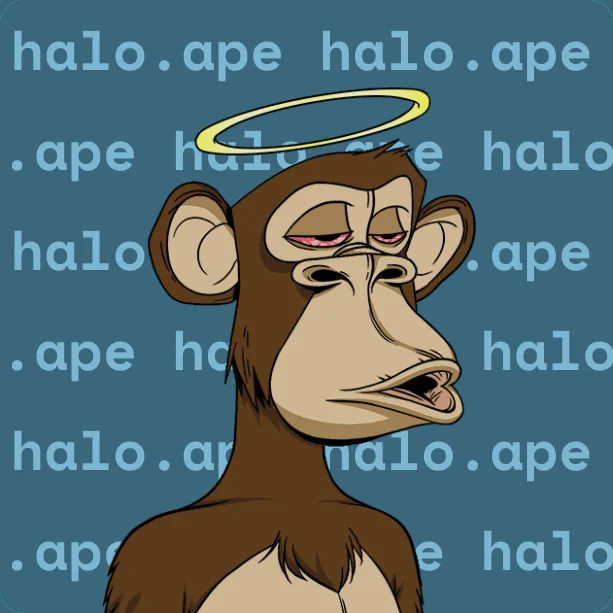
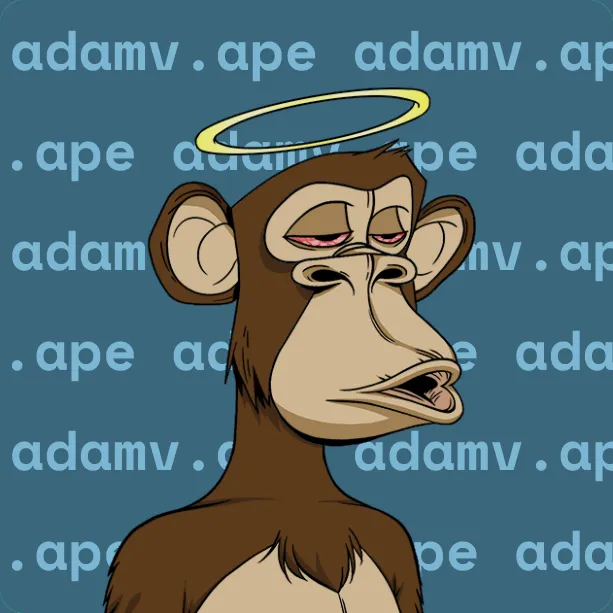
sx

diff --git a/src/2.views/3.generator/generator.js b/src/2.views/3.generator/generator.js
@@ -16,6 +16,7 @@ import AdamApe from "../../1.resources/3.files/images/nft/adam.webp";
 import PranApe from "../../1.resources/3.files/images/nft/pran.webp";
 import AdamdyorApe from "../../1.resources/3.files/images/nft/adamdyor.webp";
 import VincentApe from "../../1.resources/3.files/images/nft/vincent.webp";
+import EmptyImg from "../../1.resources/3.files/images/empty_nft.png";
 
 const Generator = ({ walletConnected, setWalletConnected }) => {
     let { address } = useAccount();
@@ -24,8 +25,11 @@ const Generator = ({ walletConnected, setWalletConnected }) => {
     const [tokenId, setTokenId] = useState(defaultTokenId);
     const [name, setName] = useState(defaultName);
     const [image, setImage] = useState(AdamApe);
-    const [imgLoading, setImgLoading] = useState(true);
+    const [imgLoading, setImgLoading] = useState(false);
+    const [imgError, setImgError] = useState(false);
     const [versionSelected, setVersionSelected] = useState(1);
+    const [refresh, setRefresh] = useState(0);
+
     useEffect(() => {
         document.title = "Generator - DOT APE";
     }, [])
@@ -48,22 +52,32 @@ const Generator = ({ walletConnected, setWalletConnected }) => {
         }
     }
 
-    function generate() {
+    async function generate() {
         if (name != "" && tokenId != "" && name.length >= 3) {
+            setImgLoading(true);
+            setImgError(false);
+            let signature = localStorage.getItem("accountSignature");
+            let collection = "bayc";
             let link;
             if (versionSelected == 1) {
-                link = process.env.REACT_APP_API_URL + `/generator/bg-name-color?tokenid=${tokenId}&name=${name}`
+                link = process.env.REACT_APP_API_URL + `/generator/bg-name-color?collection=${collection}&tokenid=${tokenId}&name=${name}&signature=${signature}`
             } else {
-                link = process.env.REACT_APP_API_URL + `/generator/bg-name?tokenid=${tokenId}&name=${name}`
+                link = process.env.REACT_APP_API_URL + `/generator/bg-name?collection=${collection}&tokenid=${tokenId}&name=${name}&signature=${signature}`
             }
             setImage(link);
-            setImgLoading(true);
+            setRefresh(refresh + 1);
         }
     }
 
-    const handleLoad = () => {
+    const handleOnload = () => {
         setImgLoading(false);
-    };
+    }
+
+    const handleOnError = () => {
+        setImgLoading(false);
+        setImage(EmptyImg);
+        setImgError(true);
+    }
 
     const changeOption = (e) => {
         setVersionSelected(e.target.value);
@@ -84,7 +98,7 @@ const Generator = ({ walletConnected, setWalletConnected }) => {
                         </div> */}
 
                         <div className="pt-0">
-                            <p className="text-6xl font-bold text-center">APE GENERATOR</p>
+                            <p className="text-6xl font-bold text-center">.APE GENERATOR</p>
                             <p className="text-2xl text-center pt-4">Generate your own .ape avatar for Twitter</p>
                         </div>
 
@@ -93,7 +107,11 @@ const Generator = ({ walletConnected, setWalletConnected }) => {
                                 {imgLoading ? <div className="flex justify-center items-center w-full aspect-square bg-neutral-800">
                                     <FontAwesomeIcon icon={['fas', 'circle-notch']} className="text-white text-2xl animate-spin" />
                                 </div> : (null)}
-                                <img src={image} className="w-full rounded-2xl" onLoad={handleLoad} style={{ display: imgLoading ? 'none' : 'block' }} />
+
+                                {/* {!imgLoading ? ( */}
+                                <img src={image} onLoad={handleOnload} onError={handleOnError} className="w-full rounded-2xl" style={{ display: imgLoading ? "none" : "block" }} key={refresh} />
+                                {/* ) : (null)} */}
+
                                 {imgLoading ? (null) : (
                                     <p className="text-xs text-start pt-4 text-gray-400">Right click and save image to download</p>
                                 )}
@@ -118,17 +136,32 @@ const Generator = ({ walletConnected, setWalletConnected }) => {
                                 <div className="flex items-center pt-2">
                                     <input type="text" className="bg-neutral-800 border-2 border-neutral-700 text-white text-lg w-full text-center rounded-xl py-2" value={name} onChange={changeName} />
                                 </div>
-                                <button type="button" onClick={() => generate()} className='bg-main text-white rounded-full p-3 px-4 text-sm whitespace-nowrap z-0 flex items-center gap-x-2 mt-8'>
-                                    <p>Generate</p>
-                                    <FontAwesomeIcon icon={['fas', 'arrow-right']} className="text-white text-sm" />
-                                </button>
+                                {imgError ? (
+                                    <div className="mt-8">
+                                        <p className="text-sm">We could not verify your ownership of this token.</p>
+                                    </div>
+                                ) : (null)}
+                                {address ? (
+                                    <button type="button" onClick={() => generate()} className='bg-main text-white rounded-full p-3 px-4 text-sm whitespace-nowrap z-0 flex items-center gap-x-2 mt-8'>
+                                        <p>Generate</p>
+                                        <FontAwesomeIcon icon={['fas', 'arrow-right']} className="text-white text-sm" />
+                                    </button>
+                                ) : (
+                                    <div className="mt-8">
+                                        <p className="text-sm">In order to protect the IP rights of holders, connect your wallet to verify that you own the NFT.</p>
+                                        <div className="mt-4">
+                                            <ConnectWallet />
+                                        </div>
+                                    </div>
+                                )}
+
                             </div>
                         </div>
                     </div>
 
                 </div>
 
-            </div >
+            </div>
             <div className="">
                 <Footer />
             </div>

diff --git a/src/2.views/0.global/wallet/loginSignature.js b/src/2.views/0.global/wallet/loginSignature.js
@@ -1,0 +1,123 @@
+import React, { useState, useContext, useEffect } from "react";
+import { FontAwesomeIcon } from '@fortawesome/react-fontawesome'
+import { ConnectWallet } from "../../0.global/wallet/connectWallet";
+import { signMessage } from '@wagmi/core'
+import { accountPrepend, loginPrepend } from "../../../1.resources/2.js/0.global/0.smallfunctions/prepends";
+import { useDisconnect } from 'wagmi'
+import { Variables } from "../../../1.resources/2.js/0.global/2.contracts/variables";
+import { Dialog } from '@headlessui/react'
+import { callW3Api } from "../../../1.resources/2.js/0.global/3.api/callW3Api";
+
+const LoginModal = ({ isOpen, setIsOpen, }) => {
+    const [loading, setLoading] = useState(false);
+    const [error, setError] = useState(false);
+    const { disconnect } = useDisconnect()
+
+    let walletFeatures = [
+        { title: "What will my signature be used for?", subtitle: "This signature identifies who you are and ensures that only you can access your data.", icon: "fas fa-circle-info" }
+    ]
+
+    async function sign() {
+        setLoading(true);
+        try {
+            let signature = await signMessage({ message: loginPrepend });
+            console.log(signature);
+            localStorage.setItem("accountSignature", signature);
+            setLoading(false);
+            setIsOpen(false);
+        } catch (error) {
+            setLoading(false);
+            setError(true);
+        }
+    }
+
+    async function disconnectWallet() {
+        localStorage.clear();
+        sessionStorage.clear();
+        disconnect();
+        setIsOpen(false);
+        window.location = "/";
+    }
+    return (
+        <div>
+            <Dialog
+                open={isOpen}
+                onClose={() => { }}
+                className="relative"
+                style={{ zIndex: 99000000000000000 }}
+            >
+                {/* The backdrop, rendered as a fixed sibling to the panel container */}
+                <div className="fixed inset-0 bg-black/30" aria-hidden="true" />
+
+                {/* Full-screen container to center the panel */}
+                <div className="fixed inset-0 flex items-center justify-center p-4">
+                    {/* The actual dialog panel  */}
+                    <Dialog.Panel className="mx-auto bg-white flex justify-center items-center rounded-3xl">
+
+                        <div className="md:w-[767px] py-10 md:py-20 px-10 md:px-20 bg-white rounded-3xl border border-gray-200">
+
+                            {/* <div className="pb-4">
+                                <WnsLogo />
+                            </div> */}
+                            <div className="mt-4">
+                                <p className="text-3xl font-bold">Welcome to Dot Ape!</p>
+                                <p className="text-gray-500 mt-4">Sign a message to sign into your account.</p>
+                            </div>
+
+                            <div className="pt-8 pb-2">
+                                {walletFeatures.map((item, index) => (
+                                    <div key={index} className="md:flex flex-row items-center py-6 gap-x-2 bg-gray-200 rounded-3xl px-8">
+                                        <div className="flex w-10 h-10 items-center rounded-full">
+                                            <FontAwesomeIcon icon={item.icon} className="text-xl text-black" />
+                                        </div>
+                                        <div>
+                                            <p className="text-sm font-bold">{item.title}</p>
+                                            <p className="text-gray-500 mt-1 text-sm">{item.subtitle}</p>
+                                        </div>
+                                    </div>
+                                ))}
+                            </div>
+
+                            <div>
+                                <p className="text-gray-500 mt-4 text-sm">This request will not trigger any blockchain transaction from your wallet or cost any gas fees.</p>
+                            </div>
+
+                            {loading ? (
+                                <div className="pt-8 pb-0">
+                                    <div className="flex flex-row items-center py-6 gap-x-2">
+                                        <FontAwesomeIcon icon="fas fa-circle-notch" className="text-lg text-main" spin />
+                                        <p className="text-main font-bold text-sm">Waiting for signature</p>
+                                    </div>
+                                </div>
+                            ) : (error ? (
+                                <div className="pt-8 pb-0">
+                                    <div className="flex flex-row items-center py-6 gap-x-2">
+                                        <FontAwesomeIcon icon="fas fa-circle-info" className="text-lg text-red-500" />
+                                        <p className="text-red-500 font-bold text-sm">Something went wrong</p>
+                                    </div>
+                                </div>
+                            ) : (
+                                <div className="pb-8" />
+                            )
+                            )}
+
+
+
+                            <div className="pt-0 flex items-center gap-x-2 mt-6">
+                                <div className="rounded-full p-3 bg-main px-4 w-fit cursor-pointer" onClick={() => sign()}>
+                                    <p className="text-white font-bold text-sm">Sign message</p>
+                                </div>
+                                <div className="rounded-full p-3 px-4 w-fit cursor-pointer" onClick={() => disconnectWallet()}>
+                                    <p className="text-main font-bold text-sm">Cancel</p>
+                                </div>
+                            </div>
+                        </div>
+                    </Dialog.Panel>
+                </div>
+            </Dialog>
+        </div>
+    );
+
+}
+
+export default LoginModal;

diff --git a/src/2.views/1.home/home.js b/src/2.views/1.home/home.js
@@ -136,43 +136,43 @@ const Home = ({ walletConnected, setWalletConnected }) => {
                                     <div className="pt-20">
                                         <p className="text-3xl font-bold">TEAM</p>
                                         <div className="pt-4">
-                                            <p className="text-lg">The .APE team is a group of passionate and dedicated apes who are committed to the success of the .APE project. We are a team of developers, designers, and marketers who are all passionate about the ape community and the NFT space. The team behind WNS (Web3 Name Service) have been onboarded for technical development of .APE domains and we are excited to be a part of this innovative project and look forward to working with the community to make .APE domains a success.</p>
+                                            <p className="text-lg">The .APE team is a group of passionate and dedicated apes who are committed to the success of the .APE project. We are a team of developers, designers, and marketers who are all passionate about the ape community and the NFT space. The DotAPE team is a group of passionate and dedicated apes who are committed to the success of DotApe. DotApe's inception is the brainchild of the seasoned W3 Team behind <a href="https://domains.w3.one" target="_blank" className="text-main" >Web3 Name Service (WNS)</a>. </p>
                                         </div>
-                                        <div className="grid grid-cols-2 md:grid-cols-3 lg:grid-cols-4 mt-16 gap-x-8 md:gap-x-0 gap-y-6">
+                                        <div className="grid grid-cols-2 md:grid-cols-3 lg:grid-cols-4 mt-16 gap-x-8 md:gap-x-0 gap-y-8">
                                             <div>
                                                 <img src={Pran} className="rounded-2xl w-40" />
-                                                <p className="text-lg font-semibold pt-2">pran.ape</p>
+                                                <p className="text-lg font-semibold pt-3">pran.ape</p>
                                                 <p className="text-md pt-1">Product Team</p>
                                             </div>
                                             <div>
                                                 <img src={Adam} className="rounded-2xl w-40" />
-                                                <p className="text-lg font-semibold pt-2">adam.ape</p>
+                                                <p className="text-lg font-semibold pt-3">adam.ape</p>
                                                 <p className="text-md pt-1">Development Team</p>
                                             </div>
                                             <div>
                                                 <img src={Patrick} className="rounded-2xl w-40" />
-                                                <p className="text-lg font-semibold pt-2">patrick.ape</p>
+                                                <p className="text-lg font-semibold pt-3">patrick.ape</p>
                                                 <p className="text-md pt-1">Business Team</p>
                                             </div>
                                             <div>
                                                 <img src={Vincent} className="rounded-2xl w-40" />
-                                                <p className="text-lg font-semibold pt-2">vincent.ape</p>
+                                                <p className="text-lg font-semibold pt-3">vincent.ape</p>
                                                 <p className="text-md pt-1">Business Team</p>
                                             </div>
 
                                             <div>
                                                 <img src={Andre} className="rounded-2xl w-40" />
-                                                <p className="text-lg font-semibold pt-2">andre.ape</p>
+                                                <p className="text-lg font-semibold pt-3">andre.ape</p>
                                                 <p className="text-md pt-1">Communications Team</p>
                                             </div>
                                             <div>
                                                 <img src={KongKong} className="rounded-2xl w-40" />
-                                                <p className="text-lg font-semibold pt-2">kongkong.ape</p>
+                                                <p className="text-lg font-semibold pt-3">konkong.ape</p>
                                                 <p className="text-md pt-1">Communications Team</p>
                                             </div>
                                             <div>
                                                 <img src={Manuel} className="rounded-2xl w-40" />
-                                                <p className="text-lg font-semibold pt-2">manuel.ape</p>
+                                                <p className="text-lg font-semibold pt-3">manuel.ape</p>
                                                 <p className="text-md pt-1">Development Team</p>
                                             </div>
 

diff --git a/src/2.views/0.global/wallet/connectWallet.js b/src/2.views/0.global/wallet/connectWallet.js
@@ -10,6 +10,7 @@ import { watchAccount } from '@wagmi/core'
 import CloudContracts from '../../../1.resources/2.js/0.global/2.contracts/cloudContracts';
 import { getDomain, getWnsDomain } from '../../../1.resources/2.js/0.global/3.api/callW3Api';
 import { colors } from '../../../1.resources/1.css/colors';
+import LoginModal from './loginSignature';
 
 export const ConnectWallet = ({ }) => {
     const [accountModalOpen, setAccountModalOpen] = useState(false);
@@ -17,6 +18,7 @@ export const ConnectWallet = ({ }) => {
     const [domain, setDomain] = useState("");
     const [currentAddress, setCurrentAddress] = useState("");
     const { disconnect } = useDisconnect()
+    const [loginModalOpen, setLoginModalOpen] = useState(false);
 
     async function init() {
         let result = await getDomain(address);
@@ -26,9 +28,19 @@ export const ConnectWallet = ({ }) => {
         }
     }
 
+    async function checkSignature() {
+        let signature = localStorage.getItem("accountSignature");
+        console.log("signature", signature);
+        if (signature == null || signature == "" || signature == undefined || signature == "null") {
+            setLoginModalOpen(true);
+        }
+
+    }
+
     useEffect(() => {
         if (address != null && address != "" && address != undefined) {
             init();
+            checkSignature();
         }
     }, [address])
 
@@ -68,7 +80,7 @@ export const ConnectWallet = ({ }) => {
                             {(() => {
                                 if (!connected) {
                                     return (
-                                        <button onClick={openConnectModal} type="button" className='bg-main text-white rounded-full p-3 px-4 text-md whitespace-nowrap z-0'>
+                                        <button onClick={openConnectModal} type="button" className='bg-main text-white rounded-full p-3 px-4 text-sm whitespace-nowrap z-0'>
                                             Connect Wallet
                                         </button>
                                     );
@@ -107,6 +119,7 @@ export const ConnectWallet = ({ }) => {
 
             </ConnectButton.Custom>
             <AccountModal accountModalOpen={accountModalOpen} setAccountModalOpen={setAccountModalOpen} domain={domain} />
+            <LoginModal isOpen={loginModalOpen} setIsOpen={setLoginModalOpen} />
         </div>
     );
 };

diff --git a/src/2.views/0.global/header/header.js b/src/2.views/0.global/header/header.js
@@ -3,6 +3,7 @@ import { useContext } from "react";
 import { FontAwesomeIcon } from '@fortawesome/react-fontawesome'
 import Logo from "../../../1.resources/3.files/logo/logo_white2.png"
 import Links from "./links";
+import { ConnectWallet } from "../wallet/connectWallet";
 
 
 const Header = ({ }) => {
@@ -28,17 +29,18 @@ const Header = ({ }) => {
                             <a href="/presale" className="flex items-center gap-x-2 hidden md:block">
                                 <p className="text-lg text-white">Presale</p>
                             </a>
-                            {/* <a href="/delegates" className="flex items-center gap-x-2">
-                            <p className="text-lg text-white">Delegates</p>
-                        </a> */}
+                            <a href="/generator" className="flex items-center gap-x-2">
+                                <p className="text-lg text-white">Generator</p>
+                            </a>
                         </div>
                     </div>
                     <div className="flex justify-center items-center gap-x-8 sm:mt-0">
 
-                        <a href="/presale" className="bg-main px-4 py-2 w-fit rounded-full flex items-center gap-x-2 whitespace-nowrap">
+                        {/* <a href="/presale" className="bg-main px-4 py-2 w-fit rounded-full flex items-center gap-x-2 whitespace-nowrap">
                             <p className="text-white">Buy now</p>
                             <FontAwesomeIcon icon={['fas', 'arrow-right']} className="text-white text-sm" />
-                        </a>
+                        </a> */}
+                        <ConnectWallet />
                     </div>
                 </div >
             </div>

diff --git a/src/1.resources/2.js/0.global/0.smallfunctions/prepends.js b/src/1.resources/2.js/0.global/0.smallfunctions/prepends.js
@@ -1,6 +1,6 @@
 
 export let setupPrepend = `Welcome to W3 Mail!\n\nSign this message to set up your account on the platform.\n\nThis request will not trigger a blockchain transaction from your wallet or cost any gas fees.\n\nParameters: `;
 export let privateKeyEncryptPrepend = `W3 Mail\n\nSign this message to encrypt your account.\n\nThis request will not trigger a blockchain transaction from your wallet or cost any gas fees.`;
-export let loginPrepend = `W3 Mail\n\nSign this message to login to your account.\n\nThis request will not trigger a blockchain transaction from your wallet or cost any gas fees.`;
+export let loginPrepend = `Dot Ape\n\nSign this message to login to your account.\n\nThis request will not trigger a blockchain transaction from your wallet or cost any gas fees.`;
 export let sendPrepend = "W3 Mail\n\nSign this message to send the email.\n\nThis request will not trigger a blockchain transaction from your wallet or cost any gas fees.\n\nParameters: ";
 
